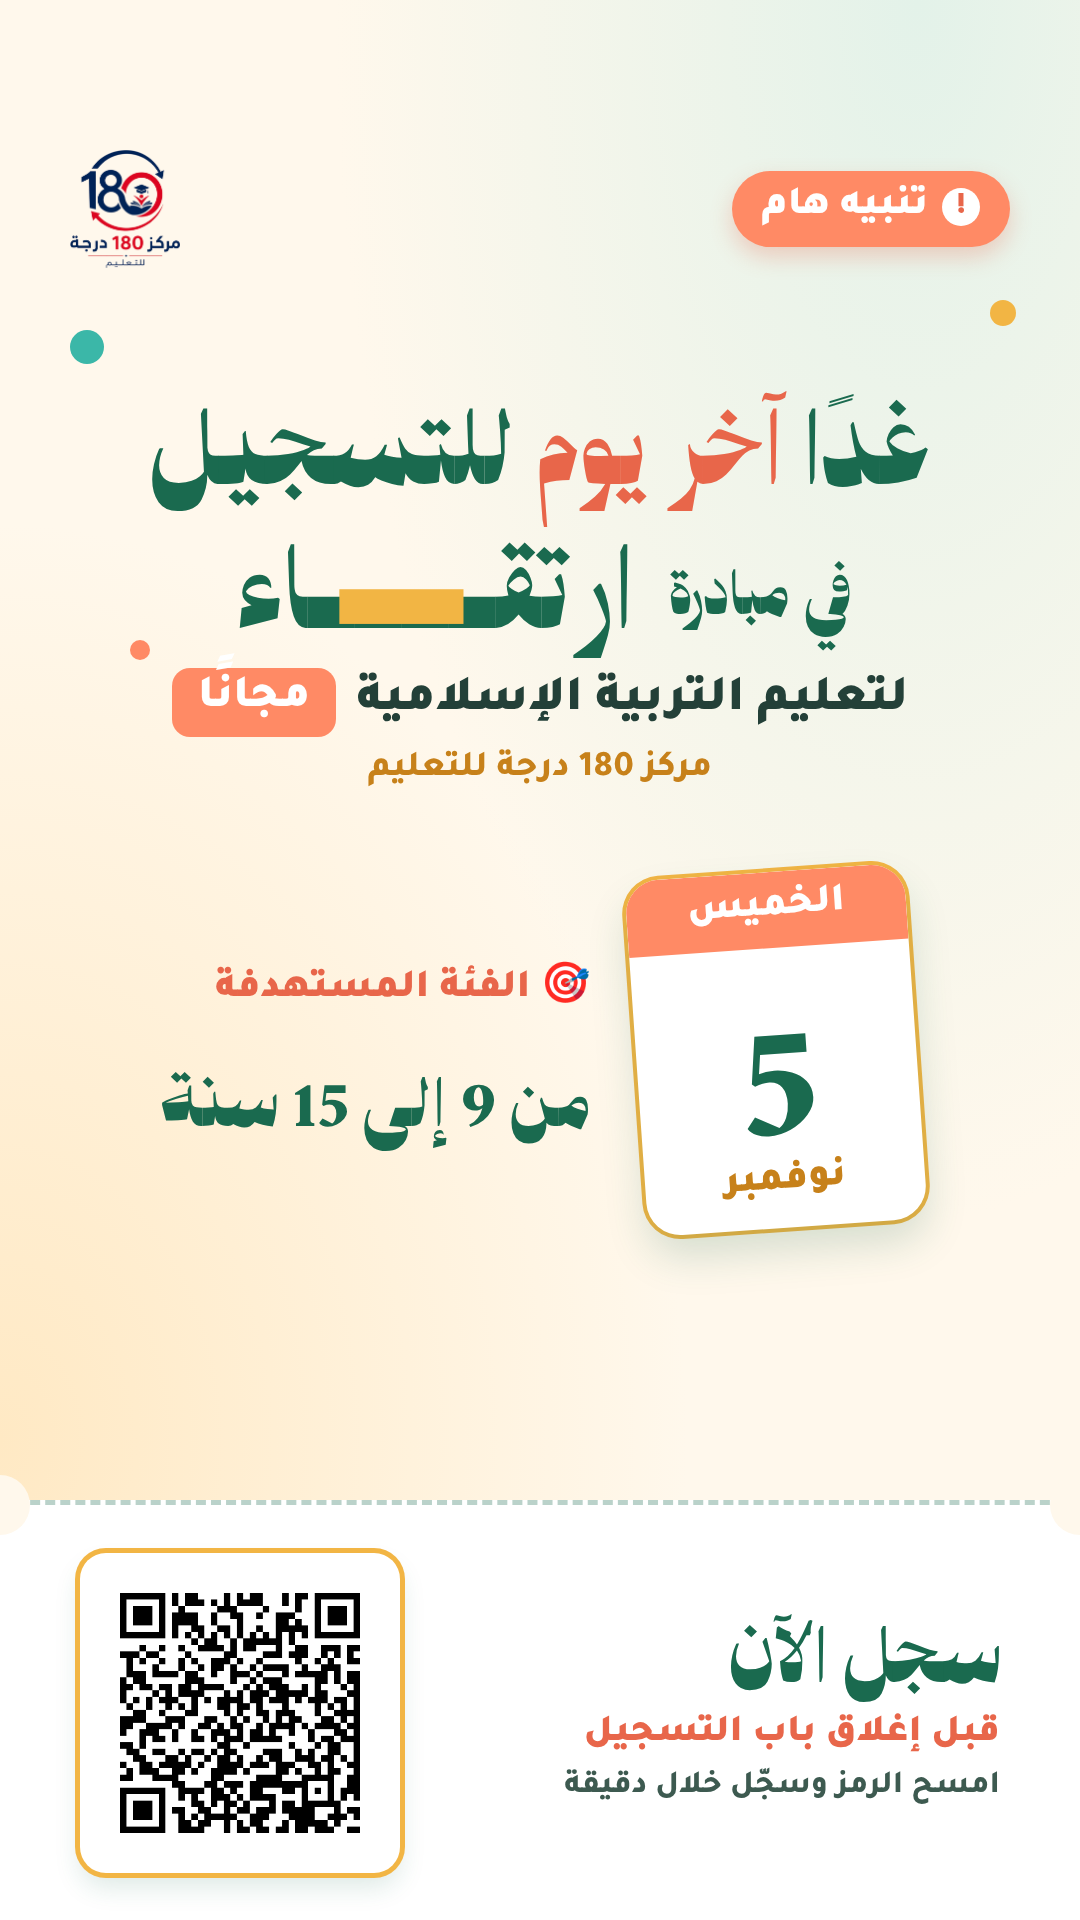
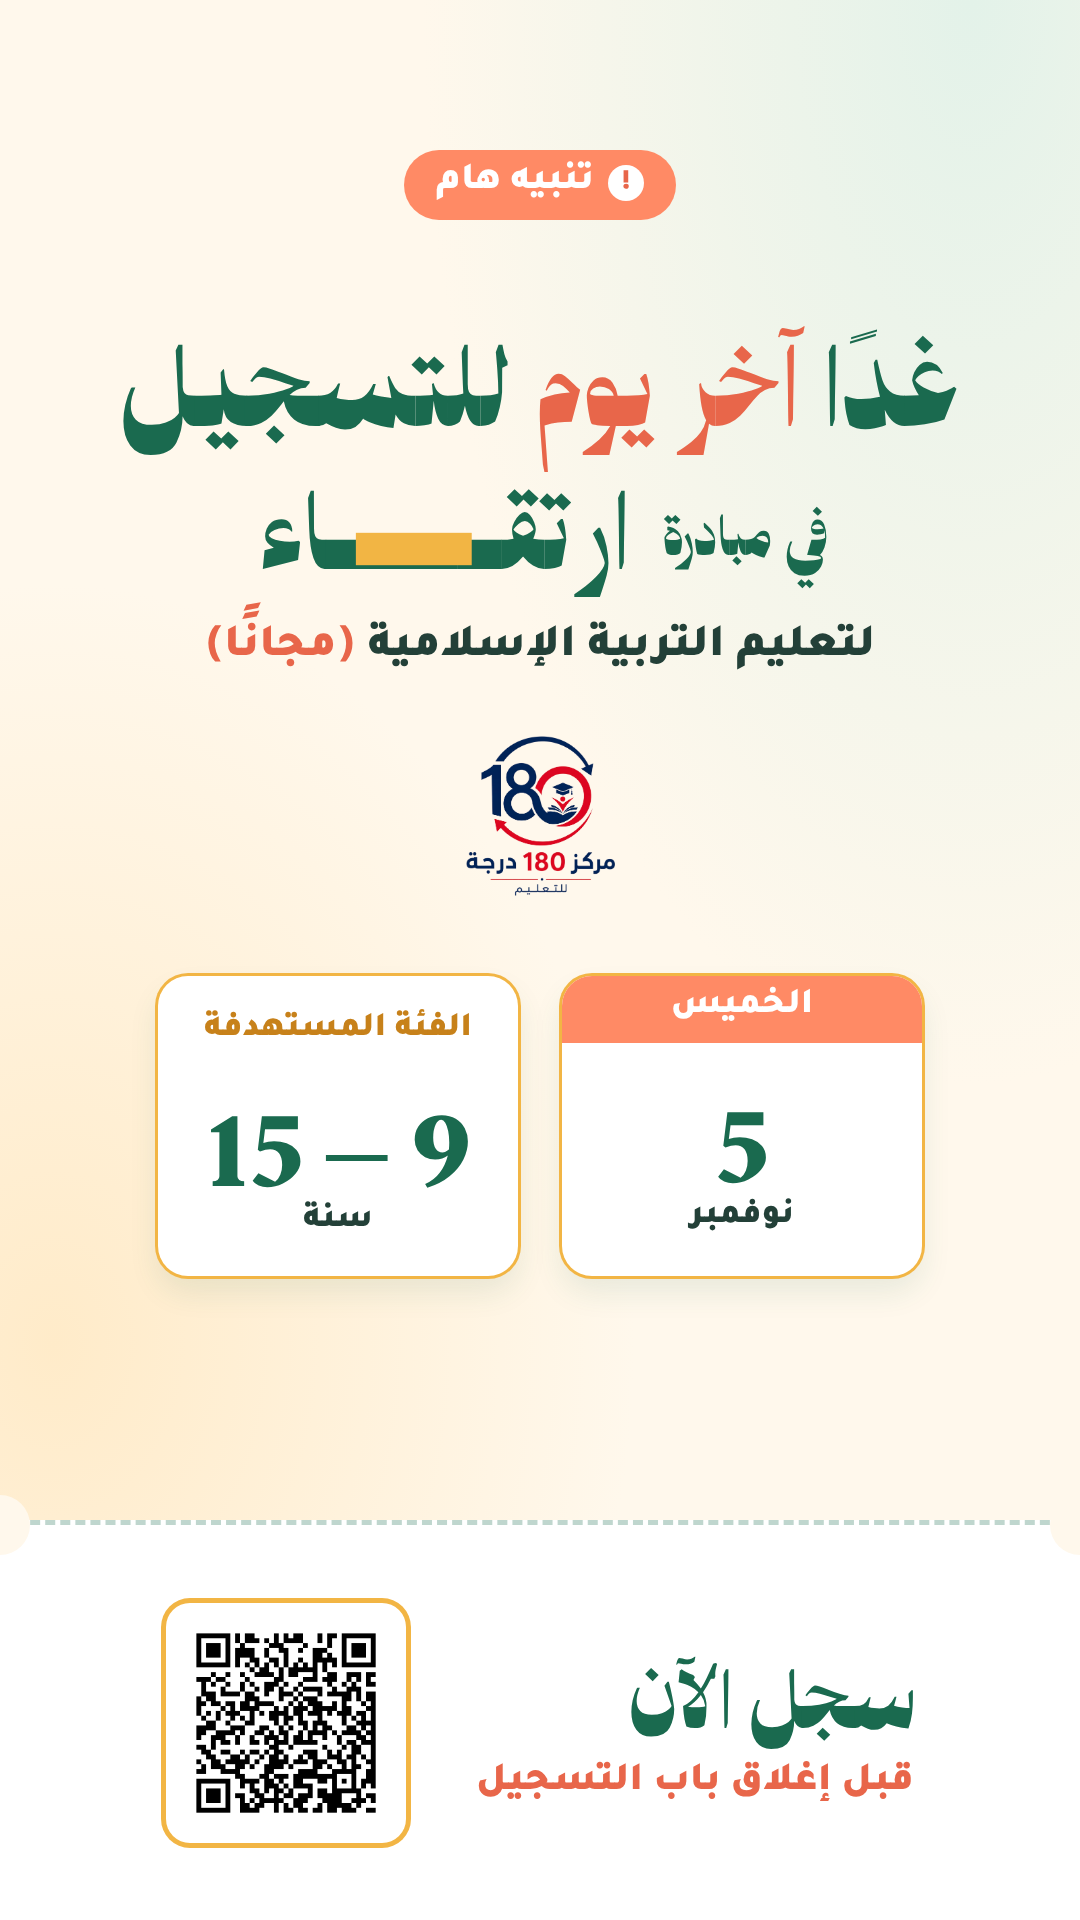
Last-day post: simplified centered layout, equal info cards
Claude-Session: https://claude.ai/code/session_01EW5L56JmWuYDA27LmftDCS

diff --git a/irtiqaa-registration/last-day/post.html b/irtiqaa-registration/last-day/post.html
@@ -6,99 +6,62 @@
 <link href="https://fonts.googleapis.com/css2?family=Tajawal:wght@500;700;800;900&display=block" rel="stylesheet">
 <style>
 @font-face{font-family:'Palestine';src:url('../assets/Palestine-Regular.ttf') format('truetype');font-display:block}
-:root{--em:#1A6A4F;--em2:#2A8466;--emD:#0E4A37;--emL:#E6F3EC;--iv:#FFF8EC;--gold:#F2B544;--goldD:#C7811A;--coral:#FF8A65;--coralD:#E8664A;--tq:#3BB7A8;--ink:#234038}
+:root{--em:#1A6A4F;--emD:#0E4A37;--emL:#E6F3EC;--iv:#FFF8EC;--gold:#F2B544;--goldD:#C7811A;--coral:#FF8A65;--coralD:#E8664A;--ink:#234038}
 *{box-sizing:border-box}
 html,body{margin:0;background:#fff}
 .post{position:relative;width:1080px;overflow:hidden;font-family:'Tajawal',sans-serif;color:var(--ink);
-  background:radial-gradient(ellipse at 85% 0%,#E3F2E9 0%,rgba(227,242,233,0) 45%),radial-gradient(ellipse at 0% 75%,#FFE9C4 0%,rgba(255,233,196,0) 45%),var(--iv)}
+  background:radial-gradient(ellipse at 90% 0%,#E3F2E9 0%,rgba(227,242,233,0) 40%),radial-gradient(ellipse at 5% 70%,#FFEBC9 0%,rgba(255,235,201,0) 40%),var(--iv)}
 .disp{font-family:'Palestine',sans-serif;font-weight:400}
-.col{position:absolute;inset:0;display:flex;flex-direction:column;align-items:center;padding:46px 70px 0}
-.dot{position:absolute;border-radius:50%}
+.col{position:absolute;left:0;right:0;top:0;display:flex;flex-direction:column;align-items:center;text-align:center}
 
-/* top row */
-.top{width:100%;display:flex;justify-content:space-between;align-items:center}
-.alert{display:inline-flex;align-items:center;gap:14px;background:var(--coral);color:#fff;font-weight:900;font-size:40px;padding:12px 30px 16px;border-radius:60px;box-shadow:0 10px 22px rgba(232,102,74,.28)}
-.alert i{display:inline-block;width:38px;height:38px;border-radius:50%;background:#fff;color:var(--coralD);font-style:normal;font-size:30px;line-height:40px;text-align:center}
-.logo{height:118px}
+.alert{display:inline-flex;align-items:center;gap:14px;background:var(--coral);color:#fff;font-weight:900;font-size:38px;padding:10px 32px 14px;border-radius:60px}
+.alert i{display:inline-block;width:36px;height:36px;border-radius:50%;background:#fff;color:var(--coralD);font-style:normal;font-size:28px;line-height:38px}
 
-/* headline */
-.h1{margin-top:22px;font-size:96px;line-height:1.35;white-space:nowrap;color:var(--em);text-align:center}
-.h1 .hl{position:relative;display:inline-block;color:var(--coralD)}
-.h1 .hl::after{content:'';position:absolute;left:4%;right:4%;bottom:22px;height:22px;background:var(--gold);opacity:.55;border-radius:12px;z-index:-1}
+.h1{font-size:100px;line-height:1.35;color:var(--em);white-space:nowrap}
+.h1 .hl{color:var(--coralD)}
+.line1{display:flex;align-items:center;gap:24px}
+.line1 .fi{font-size:58px;color:var(--em);line-height:1.4}
+#wm{height:112px}
+.line2{font-weight:900;font-size:46px;color:var(--ink)}
+.line2 .free{color:var(--coralD)}
+.logo{height:120px}
 
-/* middle: calendar + facts */
-.mid{margin-top:30px;width:100%;display:flex;align-items:center;justify-content:center;gap:46px}
-.cal{position:relative;width:236px;flex:none;background:#fff;border-radius:34px;overflow:hidden;box-shadow:0 22px 40px rgba(26,106,79,.18),0 0 0 4px var(--gold);transform:rotate(-4deg)}
-.cal .hd{background:var(--coral);color:#fff;text-align:center;font-weight:900;font-size:40px;padding:12px 0 16px}
-.cal .rings{position:absolute;top:-14px;left:0;right:0;display:flex;justify-content:space-around;padding:0 60px}
-.cal .rings span{width:20px;height:40px;border-radius:12px;background:var(--emD)}
-.cal .day{text-align:center;font-family:'Palestine';font-size:138px;line-height:1.12;color:var(--em);padding-top:6px}
-.cal .mon{text-align:center;font-weight:900;font-size:40px;color:var(--goldD);padding:14px 0 22px}
-.facts{display:flex;flex-direction:column;gap:22px;align-items:flex-start}
-.fact{display:flex;align-items:center;gap:18px;font-weight:900;font-size:44px;color:var(--ink)}
-.fact .ic{width:70px;height:70px;border-radius:50%;flex:none;display:flex;align-items:center;justify-content:center}
-.fact .ic svg{width:40px;height:40px}
-.free{background:var(--coral);color:#fff;padding:4px 26px 10px;border-radius:18px;font-size:46px}
+.cards{display:flex;gap:36px}
+.card{width:300px;height:250px;background:#fff;border-radius:30px;box-shadow:0 0 0 3px var(--gold),0 16px 30px rgba(26,106,79,.10);display:flex;flex-direction:column;align-items:center;justify-content:center;overflow:hidden}
+.card .k{font-weight:900;font-size:34px;color:var(--goldD)}
+.card .v{font-family:'Palestine';font-size:96px;line-height:1.25;color:var(--em)}
+.card .v.sm{font-size:64px;line-height:1.5}
+.card .s{font-weight:900;font-size:34px;color:var(--ink)}
+.card.cal{justify-content:flex-start}
+.card.cal .hd{width:100%;background:var(--coral);color:#fff;font-weight:900;font-size:36px;padding:10px 0 14px}
+.card.cal .v{margin-top:4px}
 
-/* wordmark line */
-.brand{margin-top:22px;display:flex;flex-direction:column;align-items:center}
-#wm{height:120px}
-.line1{margin-top:4px;display:flex;align-items:center;gap:26px}
-.line1 .fi{font-size:64px;color:var(--em);line-height:1.4}
-.line2{margin-top:10px;font-weight:900;font-size:50px;color:var(--ink);display:flex;align-items:center;gap:20px}
-.line3{margin-top:12px;font-weight:800;font-size:36px;color:var(--goldD)}
-.tg-l{font-weight:900;font-size:40px;color:var(--coralD)}
-.tg-v{font-family:'Palestine';font-size:70px;color:var(--em);line-height:1.4;margin-top:6px}
-.brand .sub{font-weight:800;font-size:34px;color:var(--goldD);margin-top:6px}
-
-/* CTA strip */
-.cta{position:absolute;left:0;right:0;bottom:0;background:#fff;border-top:5px dashed rgba(26,106,79,.3);display:flex;align-items:center;justify-content:space-between;padding:0 80px}
+.cta{position:absolute;left:0;right:0;bottom:0;background:#fff;border-top:5px dashed rgba(26,106,79,.28);display:flex;align-items:center;justify-content:center;gap:70px}
 .notch{position:absolute;top:-30px;width:60px;height:60px;border-radius:50%;background:var(--iv)}
-.cta .txt .a{font-size:80px;color:var(--em);line-height:1.2;margin-top:-26px;margin-bottom:22px}
-.cta .txt .b{font-size:38px;font-weight:900;color:var(--coralD);margin-top:2px}
-.cta .txt .c{font-size:32px;font-weight:800;color:#3D5A50;margin-top:10px}
-.qr{width:250px;height:250px;flex:none;background:#fff;border-radius:26px;box-shadow:0 0 0 5px var(--gold),0 14px 26px rgba(26,106,79,.15);display:flex;align-items:center;justify-content:center}
-.qr img{width:228px;height:228px}
+.cta .a{font-size:84px;color:var(--em);line-height:1.15}
+.cta .b{font-size:40px;font-weight:900;color:var(--coralD);margin-top:24px}
+.qr{width:240px;height:240px;flex:none;background:#fff;border-radius:24px;box-shadow:0 0 0 5px var(--gold);display:flex;align-items:center;justify-content:center}
+.qr img{width:218px;height:218px}
 </style>
 </head>
 <body>
 <div class="post" id="post">
-  <div class="dot" style="width:34px;height:34px;left:70px;top:330px;background:var(--tq)"></div>
-  <div class="dot" style="width:26px;height:26px;right:64px;top:300px;background:var(--gold)"></div>
-  <div class="dot" style="width:20px;height:20px;left:130px;top:640px;background:var(--coral)"></div>
-
-  <div class="col">
-    <div class="top">
-      <span class="alert"><i>!</i>تنبيه هام</span>
-      <img class="logo" src="../assets/logo180.png">
-    </div>
-
-    <div class="h1 disp">غدًا <span class="hl">آخر يوم</span> للتسجيل</div>
-    <div class="line1"><span class="disp fi">في مبادرة</span><div id="wm"></div></div>
-    <div class="line2">لتعليم التربية الإسلامية <span class="free">مجانًا</span></div>
-    <div class="line3">مركز 180 درجة للتعليم</div>
-
-    <div class="mid">
-      <div class="cal">
-        <div class="hd">الخميس</div>
-        <div class="day">5</div>
-        <div class="mon">نوفمبر</div>
-      </div>
-      <div class="facts">
-        <div class="tg-l">🎯 الفئة المستهدفة</div>
-        <div class="tg-v">من 9 إلى 15 سنة</div>
-      </div>
+  <div class="col" id="col">
+    <span class="alert" id="e0"><i>!</i>تنبيه هام</span>
+    <div class="h1 disp" id="e1">غدًا <span class="hl">آخر يوم</span> للتسجيل</div>
+    <div class="line1" id="e2"><span class="disp fi">في مبادرة</span><div id="wm"></div></div>
+    <div class="line2" id="e3">لتعليم التربية الإسلامية <span class="free">(مجانًا)</span></div>
+    <img class="logo" id="e4" src="../assets/logo180.png">
+    <div class="cards" id="e5">
+      <div class="card cal"><div class="hd">الخميس</div><div class="v">5</div><div class="s">نوفمبر</div></div>
+      <div class="card"><div class="k">الفئة المستهدفة</div><div class="v">9 – 15</div><div class="s">سنة</div></div>
     </div>
   </div>
 
   <div class="cta" id="cta">
     <div class="notch" style="left:-30px"></div><div class="notch" style="right:-30px"></div>
-    <div class="txt">
-      <div class="a disp">سجّل الآن</div>
-      <div class="b">قبل إغلاق باب التسجيل</div>
-      <div class="c">امسح الرمز وسجّل خلال دقيقة</div>
-    </div>
-    <div class="qr"><img src="../assets/qr.png"></div>
+    <div id="ctatxt"><div class="a disp">سجّل الآن</div><div class="b">قبل إغلاق باب التسجيل</div></div>
+    <div class="qr" id="qrbox"><img src="../assets/qr.png"></div>
   </div>
 </div>
 <script>
@@ -115,15 +78,16 @@ function wordmark(host,fs){
   svg.style.height='100%';svg.style.width='auto';
 }
 function build(){
-  const H=STORY?1920:1350, CTA=STORY?420:300;
-  const post=document.getElementById('post');post.style.height=H+'px';
+  // vertical rhythm (top offset + gaps between elements), per format
+  const H=STORY?1920:1350, CTA=STORY?400:300;
+  const TOP=STORY?150:56, GAPS=STORY?[70,10,24,60,80]:[26,2,10,24,34];
+  document.getElementById('post').style.height=H+'px';
   document.getElementById('cta').style.height=CTA+'px';
-  if(STORY){
-    const col=document.querySelector('.col');col.style.paddingTop='150px';
-    document.querySelector('.h1').style.marginTop='90px';document.querySelector('.h1').style.fontSize='108px';document.querySelector('.h1').style.whiteSpace='normal';document.getElementById('wm').style.height='150px';
-    document.querySelector('.mid').style.marginTop='80px';document.querySelector('.cal').style.width='280px';document.querySelector('.cal .day').style.fontSize='170px';
-    document.querySelector('.qr').style.cssText+='width:320px;height:320px';document.querySelector('.qr img').style.cssText='width:292px;height:292px';
-  }
+  document.getElementById('col').style.paddingTop=TOP+'px';
+  GAPS.forEach((g,i)=>document.getElementById('e'+(i+1)).style.marginTop=g+'px');
+  if(STORY){document.getElementById('e1').style.fontSize='116px';document.getElementById('wm').style.height='140px';document.getElementById('e4').style.height='160px';
+    document.querySelectorAll('.card').forEach(c=>{c.style.width='360px';c.style.height='300px'});document.querySelector('.cards').style.gap='44px';
+    document.querySelectorAll('.card .v').forEach(v=>v.style.fontSize=v.classList.contains('sm')?'74px':'120px');}
   wordmark(document.getElementById('wm'),130);
 }
 window.READY=false;
